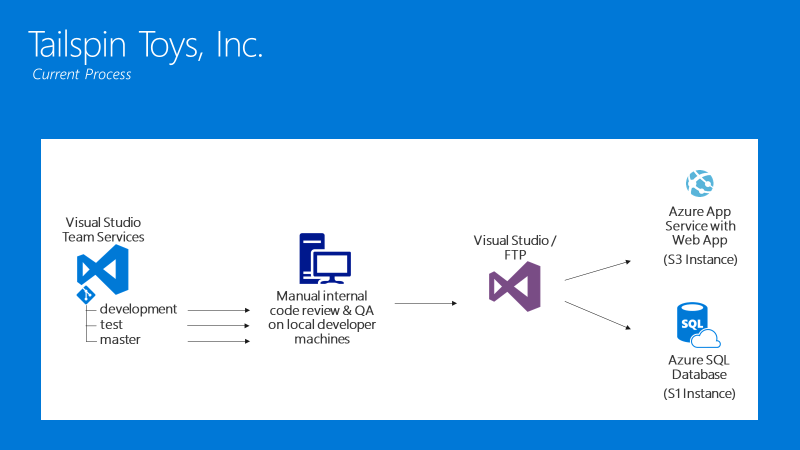
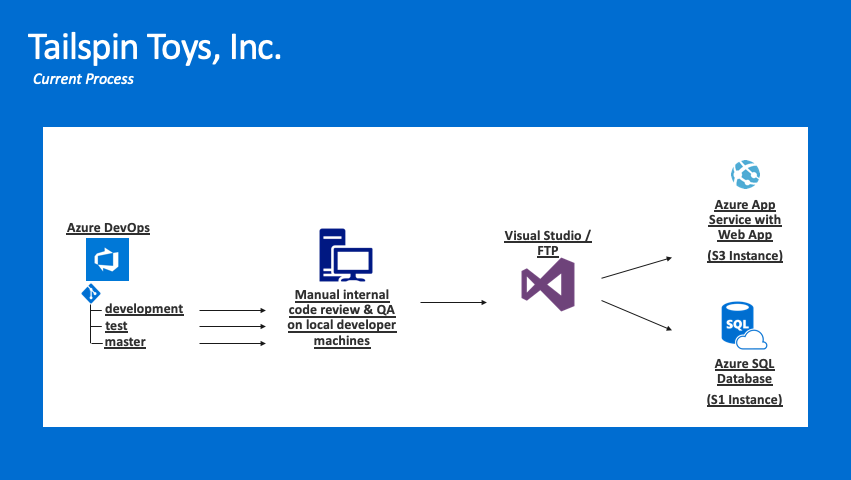
updated student & trainer guides

diff --git a/Whiteboard design session/WDS trainer guide - Continuous delivery in VSTS and Azure.md b/Whiteboard design session/WDS trainer guide - Continuous delivery in VSTS and Azure.md
@@ -1,7 +1,7 @@
 ![](https://github.com/Microsoft/MCW-Template-Cloud-Workshop/raw/master/Media/ms-cloud-workshop.png "Microsoft Cloud Workshops")
 
 <div class="MCWHeader1">
-Continuous delivery in Azure DevOps and Azure
+Continuous delivery in Azure DevOps
 </div>
 
 <div class="MCWHeader2">
@@ -43,7 +43,7 @@ Microsoft and the trademarks listed at https://www.microsoft.com/en-us/legal/int
   - [Step 3: Present the solution](#step-3-present-the-solution)
   - [Wrap-up](#wrap-up)
   - [Additional references](#additional-references)
-- [Continuous delivery in Azure DevOps and Azure whiteboard design session trainer guide](#continuous-delivery-in-azure-devops-and-azure-whiteboard-design-session-trainer-guide)
+- [Continuous delivery in Azure DevOps whiteboard design session trainer guide](#continuous-delivery-in-azure-devops-whiteboard-design-session-trainer-guide)
   - [Step 1: Review the customer case study](#step-1-review-the-customer-case-study-1)
   - [Step 2: Design a proof of concept solution](#step-2-design-a-proof-of-concept-solution-1)
   - [Step 3: Present the solution](#step-3-present-the-solution-1)
@@ -352,16 +352,16 @@ Directions: Tables reconvene with the larger group to hear the facilitator/SME s
 |    |            |
 |----------|:-------------:|
 | **Description** | **Links** |
-| Enable diagnostics logging for web apps | <<https://azure.microsoft.com/en-us/documentation/articles/web-sites-enable-diagnostic-log/> |
+| Enable diagnostics logging for web apps | <https://azure.microsoft.com/en-us/documentation/articles/web-sites-enable-diagnostic-log/> |
 | Monitor web app performance  | <https://azure.microsoft.com/en-us/documentation/articles/insights-perf-analytics/> |
-| Release management | <https://www.visualstudio.com/en-us/features/release-management-vs.aspx> |
-| Release management examples | <https://www.visualstudio.com/docs/release/examples/examples-index#azure> |
-| Switch deployment slots in Azure web apps | <https://www.visualstudio.com/docs/release/examples/azure/deployment-slots-webapps> |
-| App service continuous deployment | <https://www.visualstudio.com/en-us/docs/release/examples/azure/continuous-to-app-service> |
+| Azure Pipelines | <https://azure.microsoft.com/en-us/services/devops/pipelines/> |
+| Azure Pipelines examples | <https://docs.microsoft.com/en-us/azure/devops/pipelines/index?view=vsts#azure> |
+| Switch deployment slots in Azure web apps | <https://blogs.msdn.microsoft.com/devops/2017/04/10/considerations-on-using-deployment-slots-in-your-devops-pipeline/> |
+| App service continuous deployment | <https://docs.microsoft.com/en-us/azure/app-service/deploy-continuous-deployment> |
 | App service staging environments | <https://azure.microsoft.com/en-us/documentation/articles/web-sites-staged-publishing/> |
 | Application Insights | <https://azure.microsoft.com/en-us/documentation/services/application-insights/> |
 
-# Continuous delivery in Azure DevOps and Azure whiteboard design session trainer guide
+# Continuous delivery in Azure DevOps whiteboard design session trainer guide
 
 ## Step 1: Review the customer case study
 
@@ -534,13 +534,13 @@ The solution for the Tailspin Toys scenario involves several technologies, inclu
     
     **Potential answer**
 
-    By using the Release Management features of Azure DevOps, a developer never needs to touch Azure resources. Once the code is checked into the source code repository, the CI/CD activities automate the building, testing and deployment of that code without developer intervention.
+    By using the Azure Pipelines features of Azure DevOps, a developer never needs to touch Azure resources. Once the code is checked into the source code repository, the CI/CD activities automate the building, testing and deployment of that code without developer intervention.
 
 3.  If developers can deploy directly to the cloud, will that expose us to the same problems we had before when untested code was promoted to production?
     
     **Potential answer**
     
-    If we use Azure DevOps' Release Management features, we have the opportunity to configure all the necessary rules and/or approvals for ensuring a smooth and secure deployment process. The goal here is to remove human touches from the process thus increasing the stability of the release process.
+    If we use Azure DevOps' Pipelines features, we have the opportunity to configure all the necessary rules and/or approvals for ensuring a smooth and secure deployment process. The goal here is to remove human touches from the process thus increasing the stability of the release process.
 
 4.  How much of an impact will these process changes have on our development cadence? Will learning this place a new burden on the developers?
     

diff --git a/Whiteboard design session/WDS student guide - Continuous delivery in VSTS and Azure.md b/Whiteboard design session/WDS student guide - Continuous delivery in VSTS and Azure.md
@@ -1,7 +1,7 @@
 ![](https://github.com/Microsoft/MCW-Template-Cloud-Workshop/raw/master/Media/ms-cloud-workshop.png "Microsoft Cloud Workshops")
 
 <div class="MCWHeader1">
-Continuous delivery in Azure DevOps and Azure
+Continuous delivery in Azure DevOps
 </div>
 
 <div class="MCWHeader2">
@@ -26,7 +26,7 @@ Microsoft and the trademarks listed at https://www.microsoft.com/en-us/legal/int
 
 <!-- TOC -->
 
-- [Continuous delivery in Azure DevOps and Azure whiteboard design session student guide](#continuous-delivery-in-azure-devops-and-azure-whiteboard-design-session-student-guide)
+- [Continuous delivery in Azure DevOps whiteboard design session student guide](#continuous-delivery-in-azure-devops-whiteboard-design-session-student-guide)
   - [Abstract and learning objectives](#abstract-and-learning-objectives)
   - [Step 1: Review the customer case study](#step-1-review-the-customer-case-study)
     - [Customer situation](#customer-situation)
@@ -40,7 +40,7 @@ Microsoft and the trademarks listed at https://www.microsoft.com/en-us/legal/int
 
 <!-- /TOC -->
 
-# Continuous delivery in Azure DevOps and Azure whiteboard design session student guide
+# Continuous delivery in Azure DevOps whiteboard design session student guide
 
 ## Abstract and learning objectives 
 
@@ -225,12 +225,12 @@ Directions:  Tables reconvene with the larger group to hear the facilitator/SME 
 |    |            |
 |----------|:-------------:|
 | **Description** | **Links** |
-| Enable diagnostics logging for web apps | <<https://azure.microsoft.com/en-us/documentation/articles/web-sites-enable-diagnostic-log/> |
+| Enable diagnostics logging for web apps | <https://azure.microsoft.com/en-us/documentation/articles/web-sites-enable-diagnostic-log/> |
 | Monitor web app performance  | <https://azure.microsoft.com/en-us/documentation/articles/insights-perf-analytics/> |
-| Release management | <https://www.visualstudio.com/en-us/features/release-management-vs.aspx> |
-| Release management examples | <https://www.visualstudio.com/docs/release/examples/examples-index#azure> |
-| Switch deployment slots in Azure web apps | <https://www.visualstudio.com/docs/release/examples/azure/deployment-slots-webapps> |
-| App service continuous deployment | <https://www.visualstudio.com/en-us/docs/release/examples/azure/continuous-to-app-service> |
+| Azure Pipelines | <https://azure.microsoft.com/en-us/services/devops/pipelines/> |
+| Azure Pipelines examples | <https://docs.microsoft.com/en-us/azure/devops/pipelines/index?view=vsts#azure> |
+| Switch deployment slots in Azure web apps | <https://blogs.msdn.microsoft.com/devops/2017/04/10/considerations-on-using-deployment-slots-in-your-devops-pipeline/> |
+| App service continuous deployment | <https://docs.microsoft.com/en-us/azure/app-service/deploy-continuous-deployment> |
 | App service staging environments | <https://azure.microsoft.com/en-us/documentation/articles/web-sites-staged-publishing/> |
 | Application Insights | <https://azure.microsoft.com/en-us/documentation/services/application-insights/> |
 

diff --git a/README.md b/README.md
@@ -1,4 +1,4 @@
-# Continuous delivery in Azure DevOps and Azure
+# Continuous delivery in Azure DevOps
 
 Tailspin Toys saw the positive potential of the cloud and moved its IT infrastructure, with no significant re-architecture, into Microsoft Azure around six months ago. Now that its business is running successfully in the cloud, it has started a series of process improvements to become a more agile company with a specific focus on delivering frequent feature updates and fixes to its public website. Alex Montgomery, VP of sales and the head of its online business team, says that, "Even though our products are better, our competitors are generating more online sales than we are. For every feature that we deliver to our website, they have delivered 2 or 3. Our development processes are too cumbersome and slow for us to build quality code at that pace."
 
